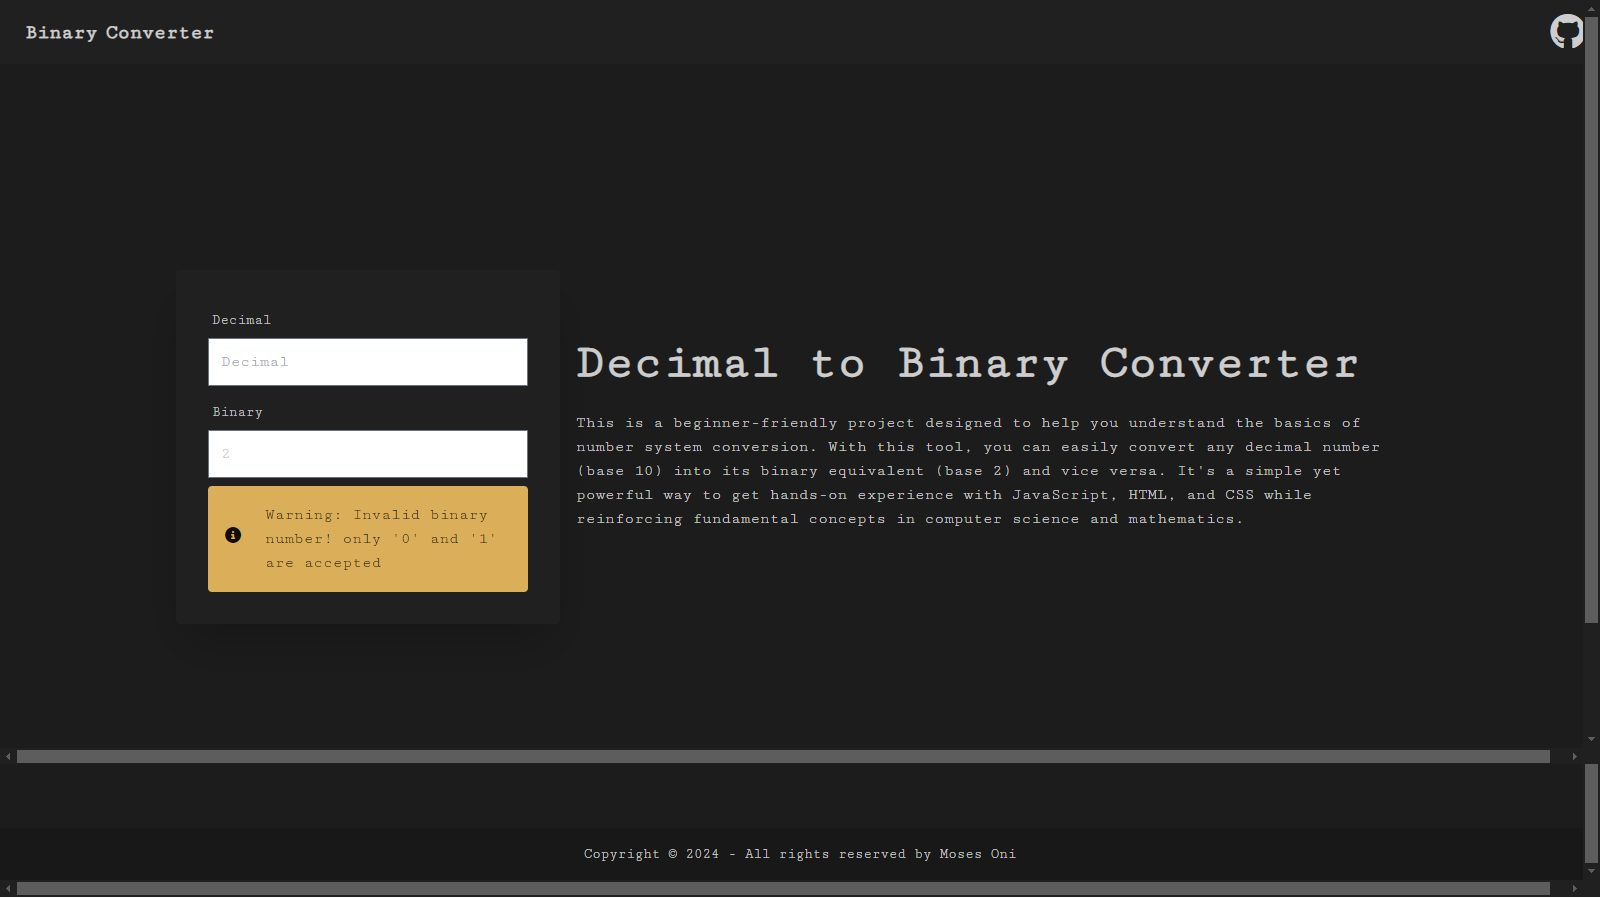
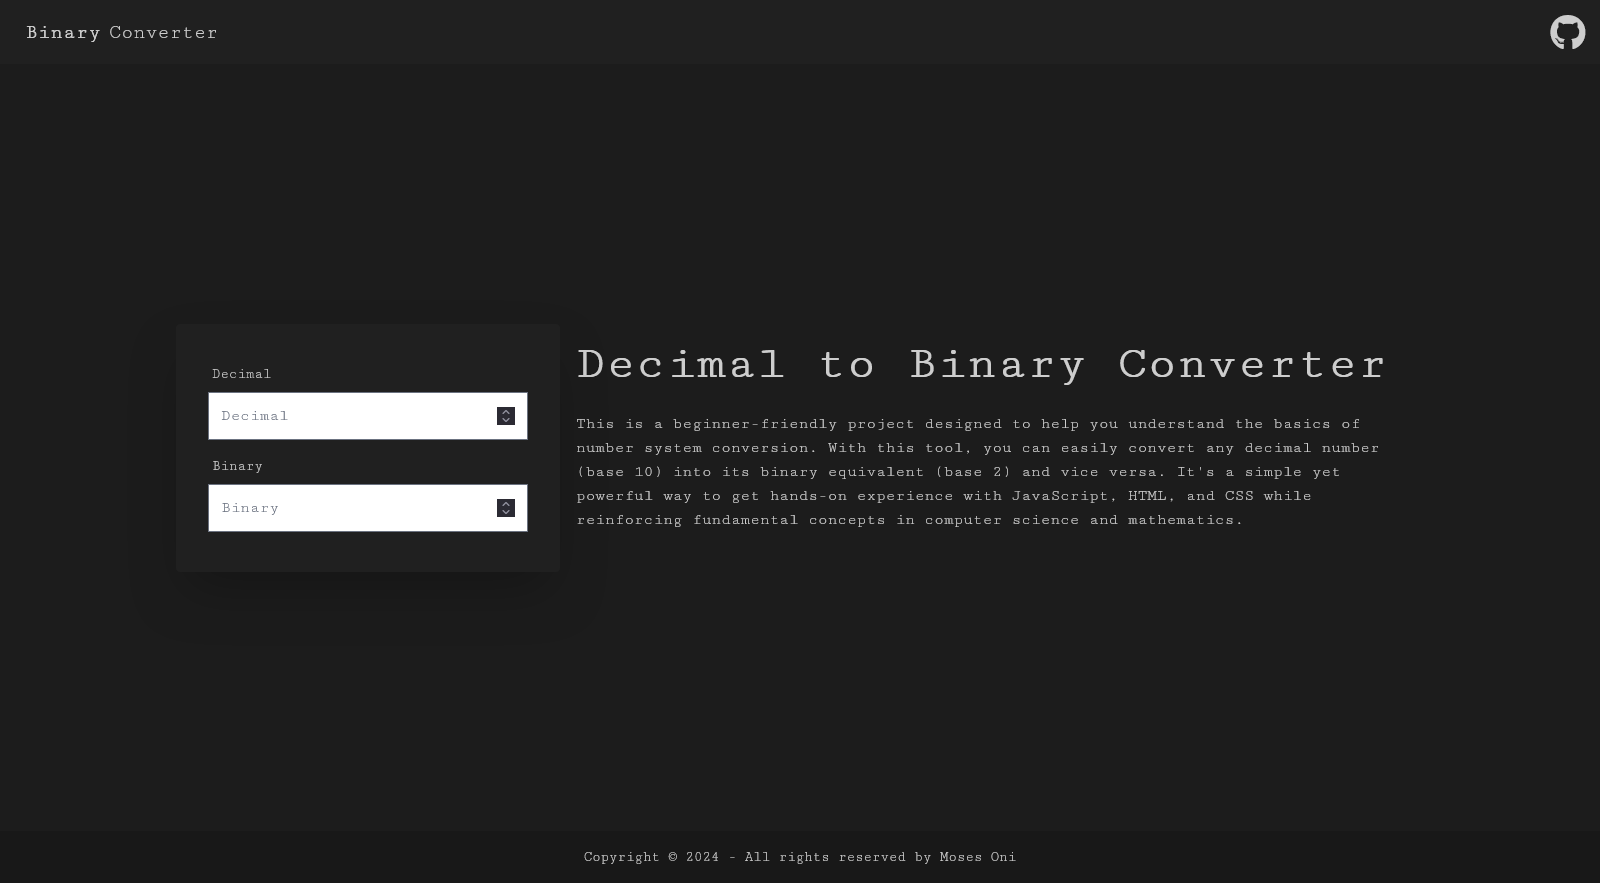
good im done now

diff --git a/index.html b/index.html
@@ -49,7 +49,7 @@
   <body class="mono">
 
     <!-- Navigation Bar -->
-   <div class="container">
+   <div class="container-xl">
     <div class="navbar bg-base-100">
       <div class="flex-1">
         <a class="btn btn-ghost font-bold text-xl">Binary<span class="font-thin">Converter</span></a>
@@ -65,7 +65,7 @@
    </div>
 
     <!-- Main Content -->
- <main class="container">
+ <main class="container-xl">
   <div class="hero bg-base-200 min-h-screen">
     <div class="hero-content flex-col lg:flex-row-reverse">
       <div class="text-center lg:text-left">
